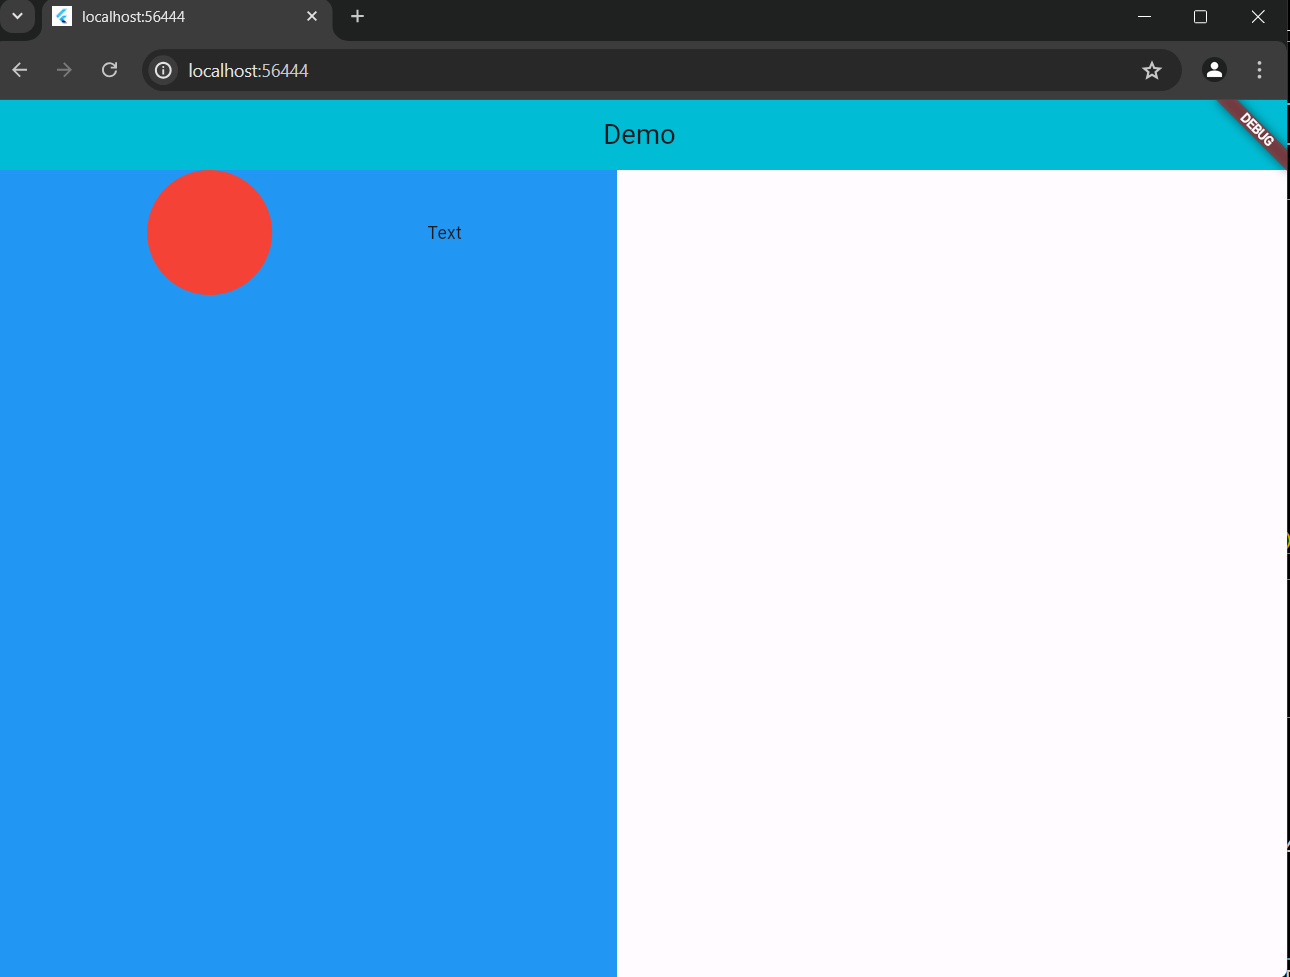
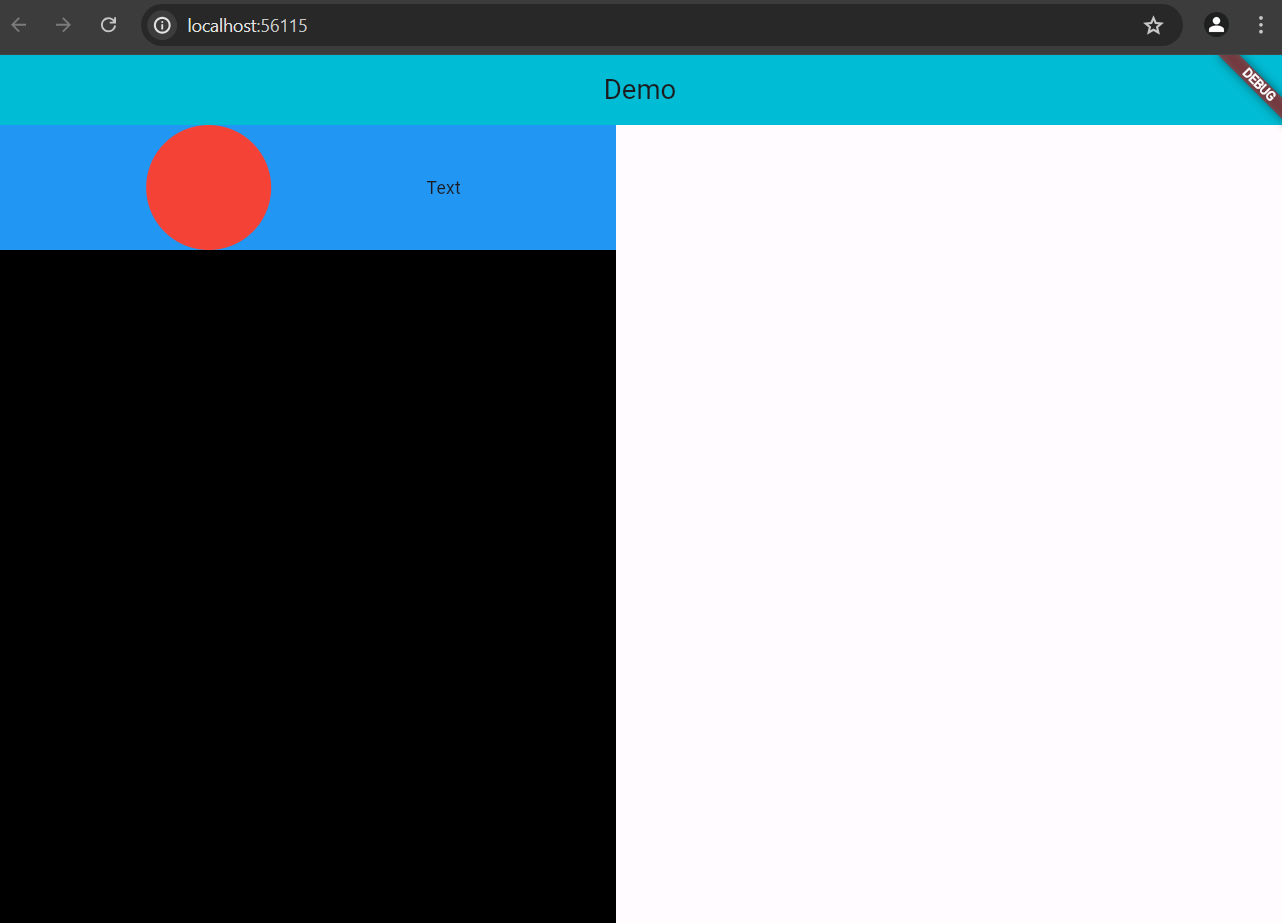
.

diff --git a/project_3/lib/main.dart b/project_3/lib/main.dart
@@ -1,5 +1,5 @@
 import 'package:flutter/material.dart';
-import 'package:project_3/assignment2.dart';
+import 'package:project_3/assignment3.dart';
 
 void main() {
   runApp(const MyApp());
@@ -12,7 +12,7 @@ class MyApp extends StatelessWidget {
   @override
   Widget build(BuildContext context) {
     return const MaterialApp(
-      home: Assignment2(),
+      home: Assignment3(),
     );
   }
 }
